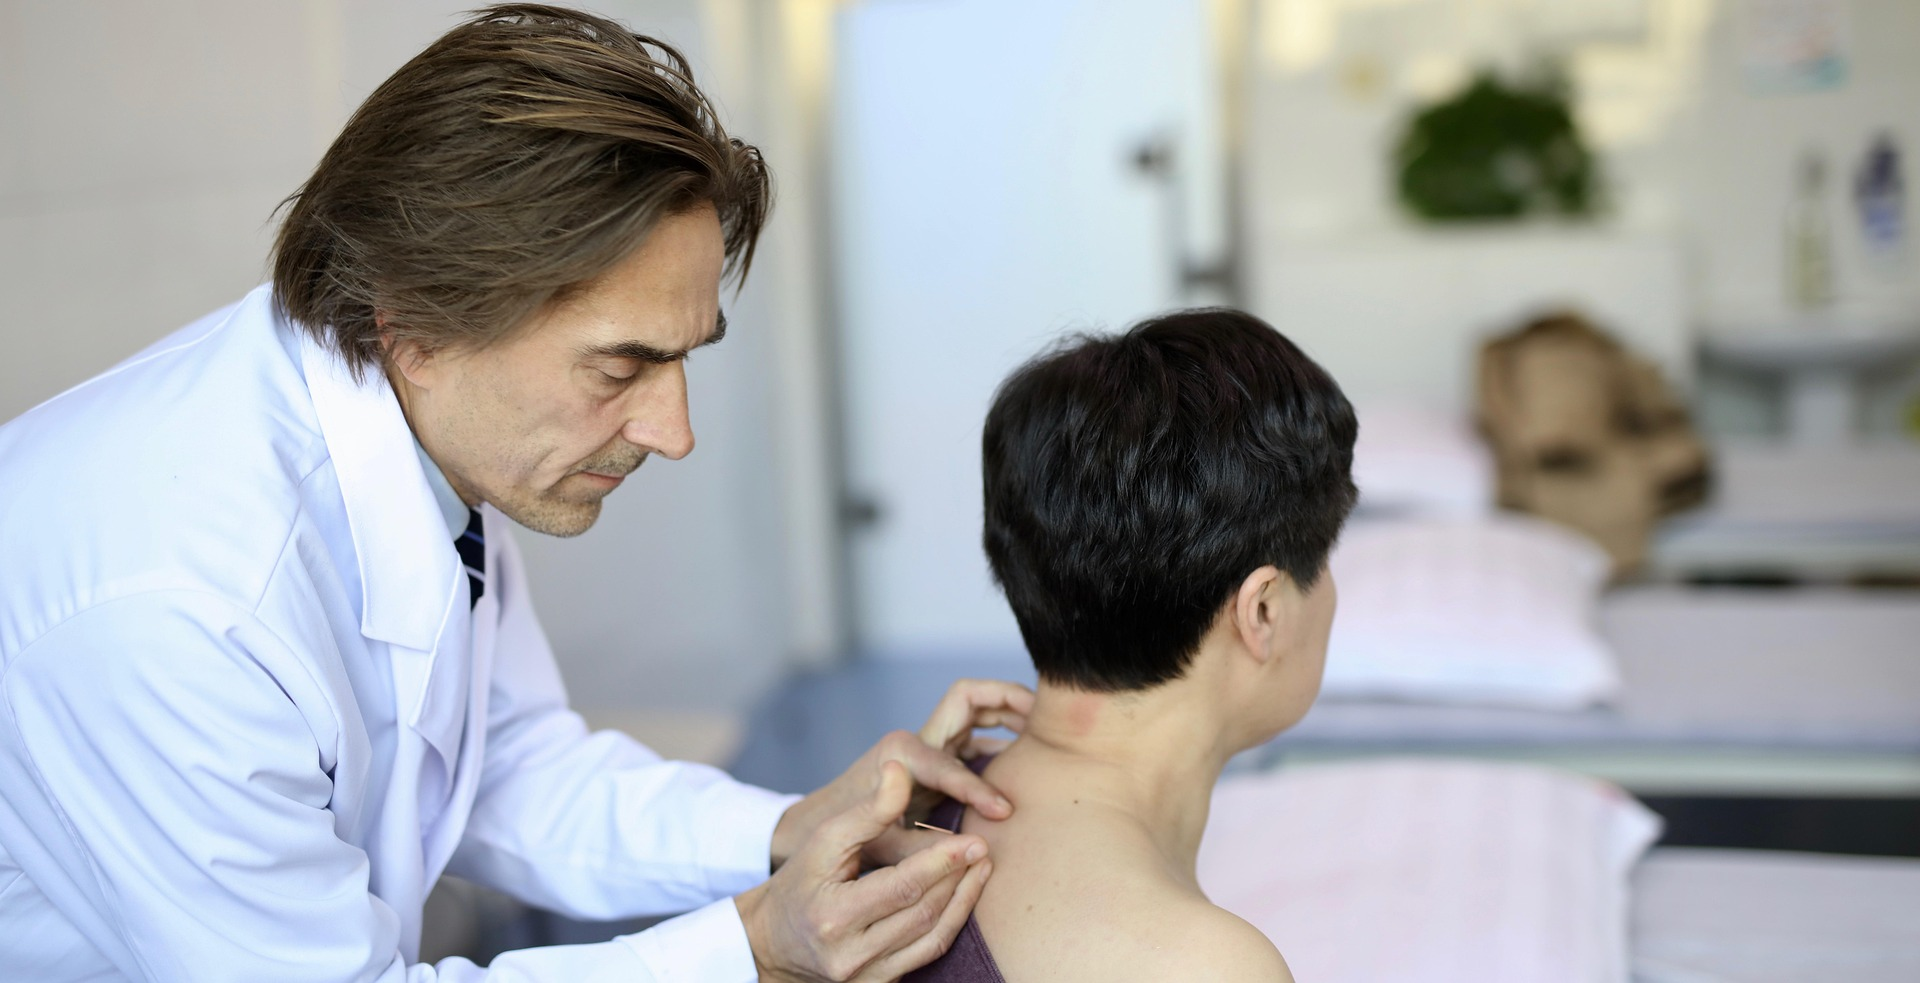
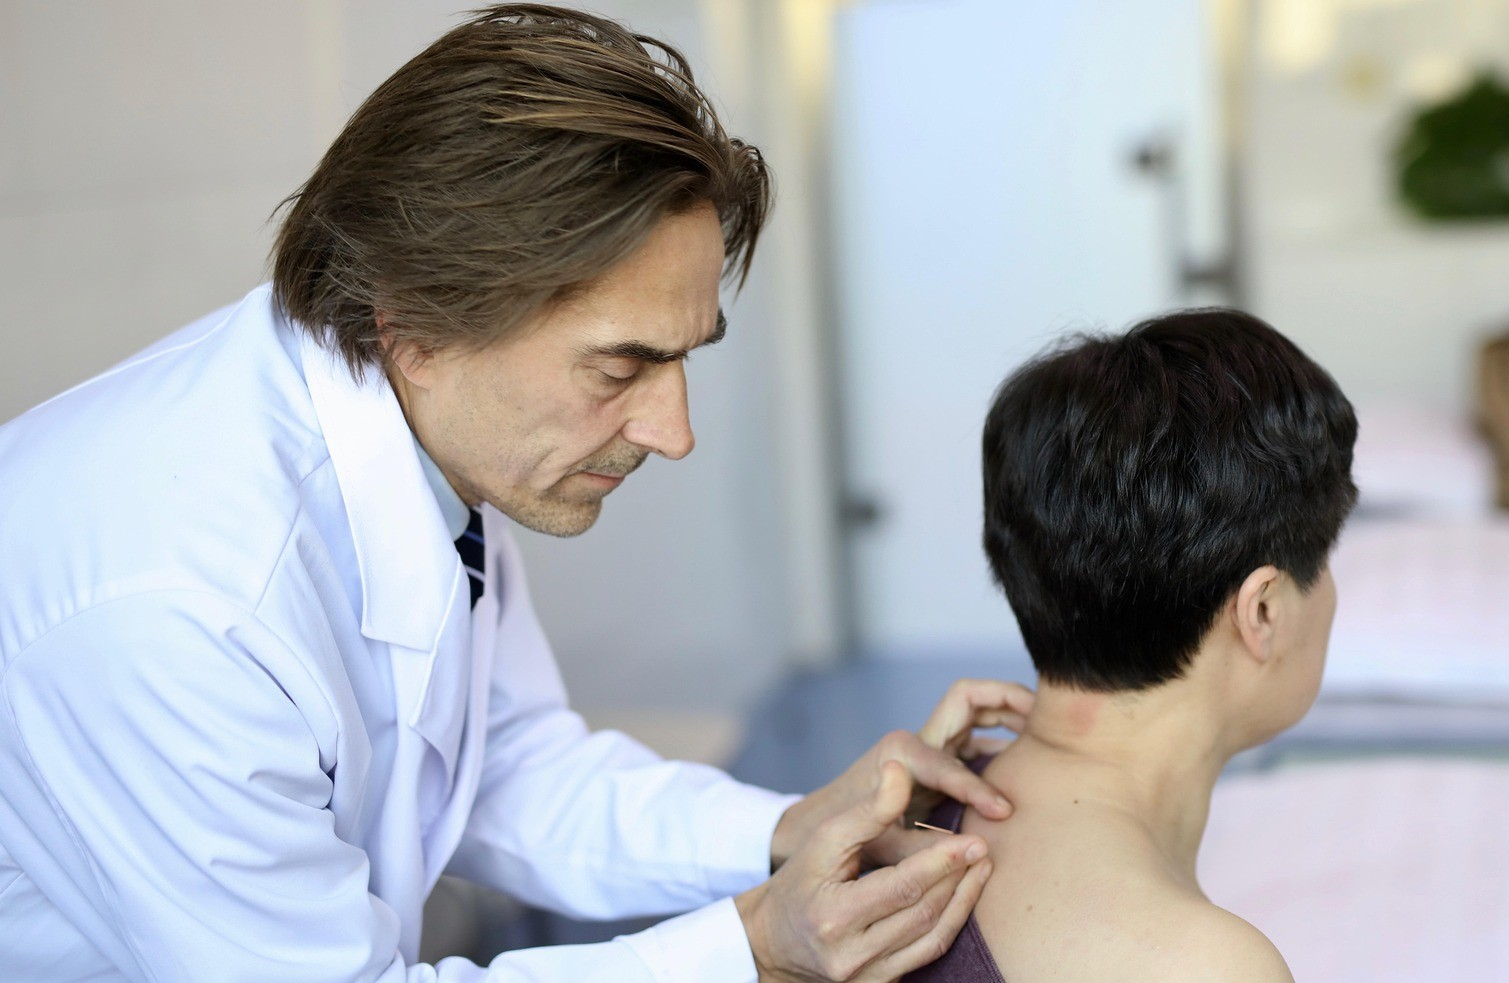
Ajuste n Mobile - tamanho das imagens

diff --git a/index.html b/index.html
@@ -69,17 +69,17 @@
         <h2 class="titulo">Serviços</h2>
         <div class="service-item">
             <h3 class="titulo">Consulta Médica</h3>
-            <img src="imagens/consultamedica.jpg" alt="" height="300px">
+            <img src="imagens/consultamedica.jpg" alt="" class="img-page">
             <p>Consultas com o Dr. Alexandre Oliveira para diagnóstico e tratamento de diversas condições.</p>
         </div>
         <div class="service-item">
             <h3 class="titulo">Exames de Rotina</h3>
-            <img src="imagens/enfermeira.jpg" alt="" height="300px">
+            <img src="imagens/enfermeira.jpg" alt="" class="img-page">
             <p>Realização de exames para acompanhamento de sua saúde preventiva.</p>
         </div>
         <div class="service-item">
             <h3 class="titulo">Tratamentos Especiais</h3>
-            <img src="imagens/tratamento.jpg" alt="" height="300px">
+            <img src="imagens/tratamento.jpg" alt="" class="img-page">
             <p>Tratamentos personalizados para suas necessidades específicas de saúde.</p>
         </div>
     </section>

diff --git a/css/style.css b/css/style.css
@@ -112,6 +112,10 @@ body {
     width: 100%;
 }
 
+.img-page{
+    height: 400px;
+}
+
 @media (max-width: 768px) {
     .header .nav {
         display: none;
@@ -130,6 +134,10 @@ body {
     
     .hero-text h2, p{
         font-size: 10px;
+    }
+
+    .img-page{
+        height: 200px;
     }
 }
 
@@ -309,3 +317,8 @@ body {
     margin-left: 10px;
     opacity: 0.8;
 }
+
+footer p{
+    color: #fff;
+}
+
